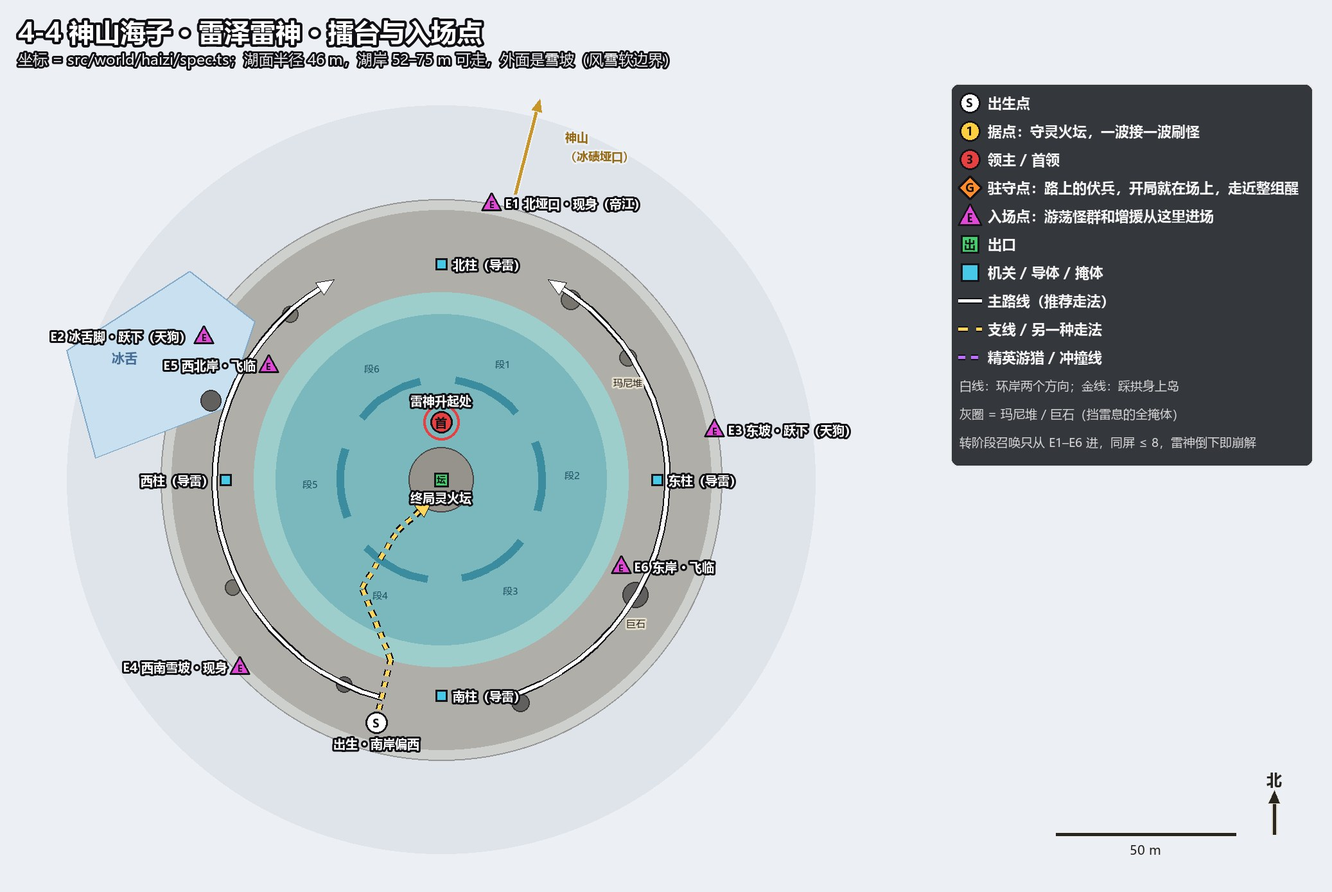
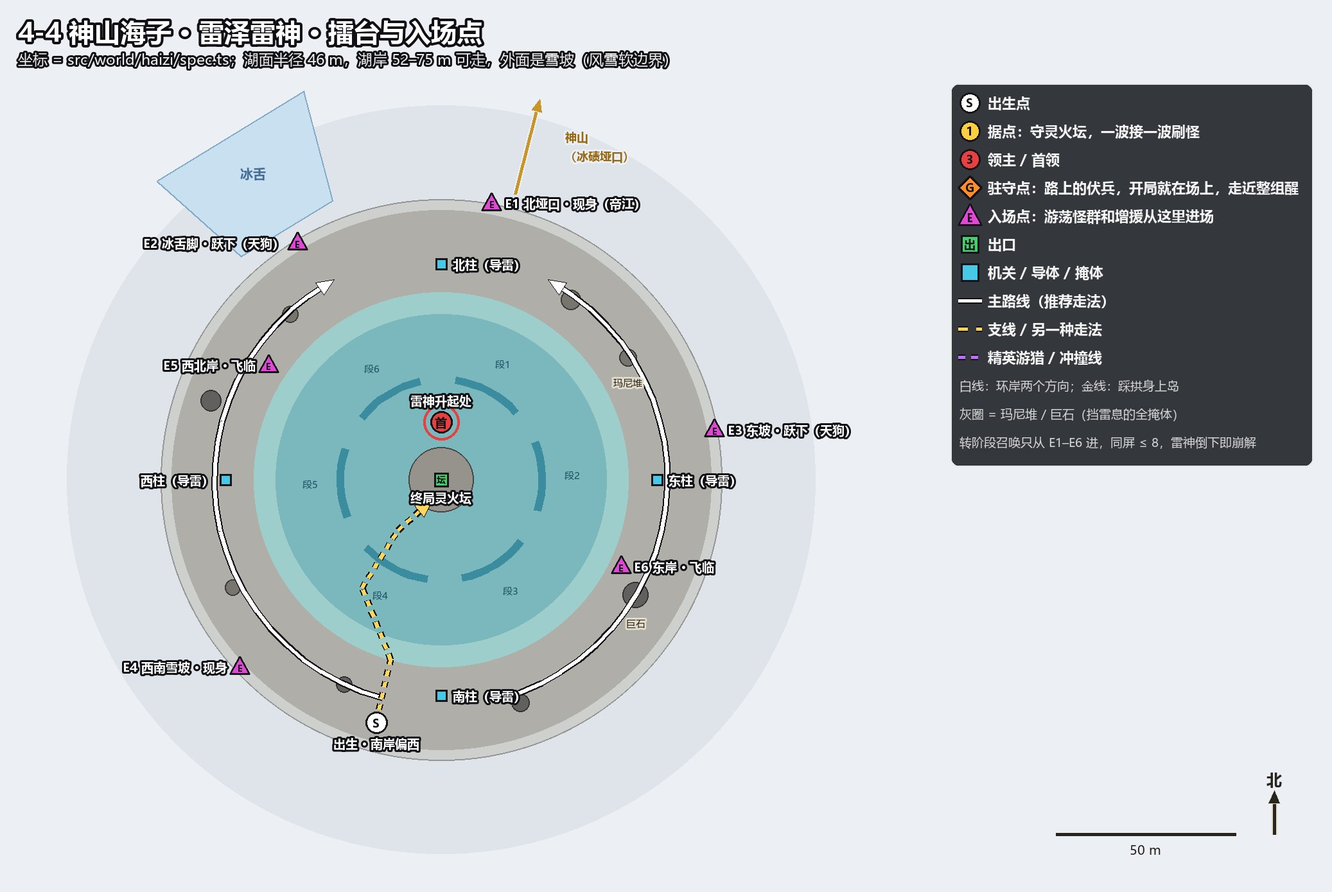
feat(plateau): 4-4 神山海子照概念图落进检视页——黎明光与神山金顶、冰舌、乳白湖色、干净的碎石岸、空气透视与雾带
- spec.ts DAWN：太阳东南偏南、仰角 7°、强度只留 0.55，湖盆靠冷调天光；天空换黎明配色；远山在 220–520 m 朝太阳一面染金
  （1.4 km 外不在阴影贴图里，烘进顶点色）
- glacier.ts：西北偏北冰斗壁上的冰舌，程序生成大切面，舌尖 82 m 处一道冰墙；只是看的，不加碰撞；
  入场点 E2「冰舌脚」随之挪到 (−40, −66)，reach_probe 4-4 全部通过
- terrain.ts：湖岸和冰斗壁不再长草（草 / 杜鹃只留南面谷口），冰斗壁 8 m 往上积雪、加几道深色岩带，远景去掉草绿；湖色降一半饱和
- haiziLab：接 Atmosphere（第四章默认值，云影 0.15）+ 两组雾带（湖北半边贴水面、冰斗脚可玩区外一圈，不挡在玩家和雷神之间）
- 对照图 docs/art/concepts/ch4-631/4-4_haizi_concept_vs_web.jpg（同一机位，上概念图、下网页）；631：低饱和 70%、中间调 72%、安静 26%
- render_blockouts.mjs 加 --out（拿改过的场景和概念图对照，不覆盖白模底图）；叠标 / 俯视图跟着 E2 和冰舌位置更新

Changed region(s): [[0.0926, 0.0929, 0.2469, 0.3096], [0.0309, 0.3405, 0.1851, 0.4953]]

diff --git a/src/world/haizi/scene.ts b/src/world/haizi/scene.ts
@@ -1,18 +1,22 @@
 /**
  * 4-4 神山海子的场景组装：地形瓦片、镜面湖、四根导雷石柱、湖岸掩体与经幡、湖心岛灵火坛、天空、远景、草与碎石。
- * 湖面用平面反射（three/examples 的 Reflector，半分辨率）：近处像镜子一样映着神山，俯看时是牛奶海的乳白青绿；
+ * 湖面用平面反射（three/examples 的 Reflector，半分辨率）：近处像镜子一样映着神山，俯看时是牛奶海的乳白青灰；
  * setTint / setGlow 把湖水变成通电的紫红（雷泽雷神二阶段「雷泽」）。
+ * 光和色照概念图 docs/art/concepts/ch4-631/4-4_haizi_scene_v5.jpg：黎明，湖盆在冷调阴影里，只有神山上半截吃到金光（DAWN）；
+ * 西北偏西的冰斗壁上一条冰舌（glacier.ts）。
  */
 import * as THREE from 'three';
 import { Reflector } from 'three/examples/jsm/objects/Reflector.js';
 import { buildMountains, buildSky } from '../plateau/backdrop';
+import { srgb } from '../plateau/fx';
 import { FlagSystem } from '../plateau/flags';
 import { GeoBuilder } from '../plateau/geo';
 import { buildPlacements, type Animated, type MapIcon, type SmokeEmitter } from '../plateau/landmarks';
 import { WORLD_UNIFORMS, materials } from '../plateau/materials';
 import { GrassField, buildStaticScatter } from '../plateau/scatter';
 import type { CollisionWorld } from '../plateau/walker';
-import { FLAG_LINES, ISLAND, LAKE, PEAKS, PILLARS, PLACEMENTS, type PillarSpec } from './spec';
+import { buildGlacier } from './glacier';
+import { DAWN, FLAG_LINES, ISLAND, LAKE, PEAKS, PILLARS, PLACEMENTS, type PillarSpec } from './spec';
 import { buildFarTerrain, type HaiziTerrain } from './terrain';
 
 // ───────────────────────────── 湖面 ─────────────────────────────
@@ -160,6 +164,52 @@ function linearSky(sky: THREE.Mesh): THREE.Mesh {
   return mesh;
 }
 
+// ───────────────────────────── 黎明 ─────────────────────────────
+
+/** 指向太阳的单位向量（4-4 的黎明，不用 4-1 的午后太阳） */
+export const DAWN_SUN_DIR = new THREE.Vector3(...DAWN.sunDir).normalize();
+
+/** 天空换成黎明的配色和太阳方向（要在 linearSky 克隆之前改） */
+function dawnSky(sky: THREE.Mesh): void {
+  const u = (sky.material as THREE.ShaderMaterial).uniforms;
+  u.uTop.value = srgb(DAWN.sky.top);
+  u.uMid.value = srgb(DAWN.sky.mid);
+  u.uHorizon.value = srgb(DAWN.sky.horizon);
+  u.uSunDir = { value: DAWN_SUN_DIR };
+}
+
+/**
+ * 金顶：远山（顶点色）在 from 以上、朝太阳的那一面往金色染。远景件，光直接烘进颜色——
+ * 1.4 km 外的山不在阴影贴图范围里，实时光照做不出「湖盆还在阴影里、只有山尖亮」。
+ */
+function summitGlow(mountains: THREE.Object3D): void {
+  const gold = new THREE.Color(DAWN.summit.color), c = new THREE.Color(), center = new THREE.Vector3();
+  const sunXZ = new THREE.Vector2(DAWN_SUN_DIR.x, DAWN_SUN_DIR.z).normalize(), out = new THREE.Vector2();
+  const seen = new Set<THREE.BufferGeometry>();
+  mountains.traverse(o => {
+    const m = o as THREE.Mesh;
+    if (!m.isMesh || seen.has(m.geometry)) return;
+    seen.add(m.geometry);
+    const g = m.geometry;
+    const pos = g.attributes.position as THREE.BufferAttribute;
+    const col = g.attributes.color as THREE.BufferAttribute | undefined;
+    if (!col) return;
+    // 朝向按顶点相对山心的水平方向判断（远山网格的法线有的朝下，材质是双面的，看不出来，但不能拿来判朝向）
+    g.computeBoundingBox();
+    g.boundingBox!.getCenter(center);
+    for (let i = 0; i < pos.count; i++) {
+      const y = pos.getY(i) + m.position.y;
+      const k = THREE.MathUtils.smoothstep(y, DAWN.summit.from, DAWN.summit.to);
+      if (k <= 0) continue;
+      out.set(pos.getX(i) - center.x, pos.getZ(i) - center.z);
+      const face = out.lengthSq() < 1 ? 0.6 : Math.max(0, out.normalize().dot(sunXZ) + 0.25);
+      c.fromBufferAttribute(col, i).lerp(gold, Math.min(1, k * face * 1.6) * DAWN.summit.strength);
+      col.setXYZ(i, c.r, c.g, c.b);
+    }
+    col.needsUpdate = true;
+  });
+}
+
 // ───────────────────────────── 导雷石柱 ─────────────────────────────
 
 export interface Pillar {
@@ -275,8 +325,11 @@ export function buildHaizi(scene: THREE.Scene, terrain: HaiziTerrain, world: Col
   }
   scene.add(terrainGroup);
   const sky = buildSky();
+  dawnSky(sky);
   const skyLin = linearSky(sky);
-  scene.add(sky, skyLin, buildMountains(PEAKS), buildFarTerrain(terrain));
+  const mountains = buildMountains(PEAKS);
+  summitGlow(mountains);
+  scene.add(sky, skyLin, mountains, buildFarTerrain(terrain), buildGlacier());
 
   const lake = new LakeSurface(terrain, reflectW, reflectH);
   // 反射那一遍换成线性色的天空，渲染完换回来

diff --git a/src/world/haizi/glacier.ts b/src/world/haizi/glacier.ts
@@ -1,0 +1,82 @@
+/**
+ * 4-4 神山海子的冰舌（概念图 docs/art/concepts/ch4-631/4-4_haizi_scene_v5.jpg 左侧那片）：
+ * 西北偏西的冰斗壁上，一条从冰斗顶淌下来的冰舌，舌尖停在湖岸外 82 m，舌尖是一道 3–4 m 的冰崖。
+ *
+ * 看得见、走不到的远中景件，按项目规矩程序生成（不走 Tripo）：一条顺着山坡的带子，几块大切面，
+ * 中线最厚、两边贴回山坡；面片单独着色（flatShading），朝上的面亮、侧面偏青，不画细裂缝。
+ * 只是看的：在可玩区（半径 78 m + 软边界）外面，不加碰撞。
+ */
+import * as THREE from 'three';
+import { patchMaterial } from '../plateau/materials';
+import { smoothstep } from '../plateau/terrain';
+import { GLACIER } from './spec';
+import { macroAt } from './terrain';
+
+/** 0..1 的确定性伪随机（同一个格点每次一样） */
+const hash = (i: number, j: number): number => {
+  const s = Math.sin(i * 127.1 + j * 311.7) * 43758.5453;
+  return s - Math.floor(s);
+};
+
+const TOP = new THREE.Color('#e9f1f5'), TOP_SHADE = new THREE.Color('#cfdfe9'), SIDE = new THREE.Color('#a8c4d2'), CLIFF = new THREE.Color('#aac2cd');
+
+export function buildGlacier(): THREE.Mesh {
+  const G = GLACIER;
+  const NS = 18, NU = 6;                      // 顺坡 18 段、横向 6 段：块面大，读得出切面
+  const dir = (b: number): [number, number] => [Math.sin(b), -Math.cos(b)];
+  /** 第 i 段（0 = 舌尖）横向第 j 点的世界坐标 */
+  const point = (i: number, j: number): THREE.Vector3 => {
+    const t = i / NS;
+    const r = G.r0 + (G.r1 - G.r0) * t;
+    const half = G.halfWidth0 + (G.halfWidth1 - G.halfWidth0) * smoothstep(0, 1, t);
+    const u = (j / NU) * 2 - 1;                 // −1..1
+    // 中线微微弯一点（冰川顺着冰斗壁的冲沟走），整条不是一根直尺
+    const bend = Math.sin(t * 2.4) * 0.05;
+    const [fx, fz] = dir(G.bearing + bend);
+    const [sx, sz] = [-fz, fx];                 // 横向
+    const x = fx * r + sx * u * half, z = fz * r + sz * u * half;
+    const ground = macroAt(x, z).h;
+    // 冰层：中线最厚、两边收成 0；舌根更厚；每个格点抖一点，切面才不呆板
+    // 舌尖那几段额外抬高：舌尖读成一道冰墙，不是贴在地上的一片
+    const snout = 1 + 0.9 * (1 - smoothstep(0, 0.12, t));
+    const th = G.thick * (1 - u * u) * (0.75 + 0.6 * t) * snout + (hash(i, j) - 0.5) * 1.2 * (1 - u * u);
+    return new THREE.Vector3(x, ground + Math.max(0.2, th), z);
+  };
+  const grid: THREE.Vector3[][] = [];
+  for (let i = 0; i <= NS; i++) { const row: THREE.Vector3[] = []; for (let j = 0; j <= NU; j++) row.push(point(i, j)); grid.push(row); }
+
+  const pos: number[] = [], col: number[] = [];
+  const up = new THREE.Vector3(0, 1, 0), e1 = new THREE.Vector3(), e2 = new THREE.Vector3(), nrm = new THREE.Vector3();
+  const tri = (a: THREE.Vector3, b: THREE.Vector3, c: THREE.Vector3, base?: THREE.Color): void => {
+    e1.subVectors(b, a); e2.subVectors(c, a); nrm.crossVectors(e1, e2).normalize();
+    if (nrm.y < 0) { [b, c] = [c, b]; nrm.negate(); }
+    // 朝上的面亮（顶面受天光），越陡越偏青（侧面），再按面片抖一点亮度
+    const k = nrm.dot(up);
+    const cc = (base ?? TOP).clone().lerp(TOP_SHADE, smoothstep(0.95, 0.75, k)).lerp(SIDE, smoothstep(0.75, 0.35, k));
+    cc.multiplyScalar(0.96 + hash(Math.round(a.x), Math.round(a.z)) * 0.08);
+    for (const v of [a, b, c]) { pos.push(v.x, v.y, v.z); col.push(cc.r, cc.g, cc.b); }
+  };
+  for (let i = 0; i < NS; i++) for (let j = 0; j < NU; j++) {
+    const a = grid[i][j], b = grid[i][j + 1], c = grid[i + 1][j + 1], d = grid[i + 1][j];
+    // 对角线按格交替，块面朝向更散
+    if ((i + j) % 2) { tri(a, b, c); tri(a, c, d); } else { tri(a, b, d); tri(b, c, d); }
+  }
+  // 舌尖冰崖：舌尖那一排点往下拉到山坡以下 1 m，一道竖着的冰墙
+  for (let j = 0; j < NU; j++) {
+    const a = grid[0][j], b = grid[0][j + 1];
+    const a0 = a.clone().setY(macroAt(a.x, a.z).h - 1), b0 = b.clone().setY(macroAt(b.x, b.z).h - 1);
+    // 冰崖朝湖：法线水平，tri() 按「朝上」翻面会翻错，这里直接按顺序写
+    const cc = CLIFF.clone().multiplyScalar(0.95 + hash(j, 99) * 0.1);
+    for (const v of [a, a0, b0, a, b0, b]) { pos.push(v.x, v.y, v.z); col.push(cc.r, cc.g, cc.b); }
+  }
+  const g = new THREE.BufferGeometry();
+  g.setAttribute('position', new THREE.Float32BufferAttribute(pos, 3));
+  g.setAttribute('color', new THREE.Float32BufferAttribute(col, 3));
+  g.computeVertexNormals();
+  const mat = patchMaterial(new THREE.MeshLambertMaterial({ vertexColors: true, flatShading: true, side: THREE.DoubleSide }));
+  const mesh = new THREE.Mesh(g, mat);
+  mesh.name = 'glacier';
+  mesh.castShadow = true;
+  mesh.receiveShadow = true;
+  return mesh;
+}

diff --git a/src/dev/haiziLab.ts b/src/dev/haiziLab.ts
@@ -7,12 +7,14 @@
 import * as THREE from 'three';
 import { MouseLookFilter } from '../core/MouseLookFilter';
 import { SKY } from '../world/plateau/backdrop';
+import { Atmosphere, atmosphereForChapter } from '../world/Atmosphere';
+import { MistStreams, type MistStream } from '../world/MistStreams';
 import { FIRE_STATE } from '../world/plateau/landmarks';
 import { WORLD_UNIFORMS } from '../world/plateau/materials';
 import { CollisionWorld, EYE, Walker } from '../world/plateau/walker';
 import { Weather } from '../world/plateau/weather';
-import { buildHaizi } from '../world/haizi/scene';
-import { COIL, ISLAND, LAKE, MAP, PILLARS, PLACEMENTS, SPAWN, VIEWPOINTS, type Viewpoint } from '../world/haizi/spec';
+import { DAWN_SUN_DIR, buildHaizi } from '../world/haizi/scene';
+import { COIL, DAWN, ISLAND, LAKE, MAP, PILLARS, PLACEMENTS, SPAWN, VIEWPOINTS, type Viewpoint } from '../world/haizi/spec';
 import { HaiziTerrain } from '../world/haizi/terrain';
 import { LeizePlay } from '../world/haizi/play';
 
@@ -59,11 +61,12 @@ renderer.shadowMap.enabled = true;
 renderer.shadowMap.type = THREE.PCFShadowMap;
 
 const scene = new THREE.Scene();
-scene.fog = new THREE.Fog(SKY.horizon, 260, 4200);
+// 黎明（DAWN，概念图 4-4 v5）：冷调的天光撑住湖盆，低角度的金色太阳从东南偏东来，东面冰斗壁的影子罩住湖
+scene.fog = new THREE.Fog(DAWN.fog, 260, 4200);
 const camera = new THREE.PerspectiveCamera(72, innerWidth / innerHeight, 0.1, 7000);
-const hemi = new THREE.HemisphereLight('#c4dbff', '#7a8a7a', 1.25);
+const hemi = new THREE.HemisphereLight(DAWN.hemiSky, DAWN.hemiGround, DAWN.hemiIntensity);
 scene.add(hemi);
-const sun = new THREE.DirectionalLight('#fff2dc', 2.9);
+const sun = new THREE.DirectionalLight(DAWN.sun, DAWN.sunIntensity);
 sun.castShadow = true;
 sun.shadow.mapSize.set(4096, 4096);
 Object.assign(sun.shadow.camera, { left: -140, right: 140, top: 140, bottom: -140, near: 10, far: 1000 });
@@ -85,6 +88,25 @@ const fog = scene.fog as THREE.Fog;
 const weather = new Weather({
   scene, sun, hemi, fog, clearFog: { color: fog.color.clone(), near: fog.near, far: fog.far }, stormFog: new THREE.Color(SKY.stormHorizon),
 }, terrain, conductors);
+
+// 空气透视 + 雾带（composition.md 8.5）：章节默认值，云影压低（开阔碎石岸上斑驳的明暗会给怪打掩护）
+Atmosphere.bind(scene, { ...atmosphereForChapter(4), cloudShadow: DAWN.cloudShadow }, { baseY: LAKE.level });
+// 雾只摆在玩家和雷神之间以外的地方：湖的北半边（从出生点看在湖心岛后面）贴水面一层，冰斗脚（可玩区外 20 m）一圈
+const ringKeys = (r: number, from: number, to: number, n: number): MistStream['keys'] => Array.from({ length: n }, (_, i) => {
+  const a = from + ((to - from) * i) / (n - 1), x = Math.sin(a) * r, z = -Math.cos(a) * r;
+  return { position: [x, terrain.heightAt(x, z) + 3, z] as [number, number, number], halfWidth: 9, size: 28, opacity: i === 0 || i === n - 1 ? 0 : 1 };
+});
+const lakeMist = new MistStreams([{
+  opacity: 0.45, speed: 0.35, flat: true, floorY: LAKE.level, stretch: 2,
+  keys: [
+    { position: [-40, LAKE.level + 0.6, -14], halfWidth: 10, size: 22, halfHeight: 1.2, opacity: 0 },
+    { position: [-18, LAKE.level + 0.6, -24], halfWidth: 12, size: 24, halfHeight: 1.2 },
+    { position: [16, LAKE.level + 0.6, -26], halfWidth: 12, size: 24, halfHeight: 1.2 },
+    { position: [40, LAKE.level + 0.6, -14], halfWidth: 10, size: 22, halfHeight: 1.2, opacity: 0 },
+  ],
+}], { renderOrder: 2 });
+const footMist = new MistStreams([{ opacity: 0.42, speed: 0.5, keys: ringKeys(100, -1.95, 1.95, 9) }]);
+scene.add(lakeMist.mesh, footMist.mesh);
 const buildMs = performance.now() - t0;
 
 // ───────────────────────────── 行走与机位 ─────────────────────────────
@@ -355,10 +377,11 @@ function tick(dt: number, render: boolean): void {
   shadowCenter.set(Math.round(ahead.x / 8) * 8, 0, Math.round(ahead.z / 8) * 8);
   shadowCenter.y = terrain.heightAt(shadowCenter.x, shadowCenter.z);
   sun.target.position.copy(shadowCenter);
-  sun.position.copy(shadowCenter).addScaledVector(SKY.sunDir, 450);
+  sun.position.copy(shadowCenter).addScaledVector(DAWN_SUN_DIR, 450);
   grass.update(camera.position);
   for (const a of anim) a.update(time, dt);
   weather.update(dt, camera.position);
+  Atmosphere.update(time);
   lake.update();
   if (!render) return;
   adaptResolution(dt);

diff --git a/src/world/haizi/terrain.ts b/src/world/haizi/terrain.ts
@@ -144,12 +144,13 @@ export class HaiziTerrain extends HeightGrid {
         // 水线上下一圈湿石头
         c.lerp(PAL.gravelWet, (1 - smoothstep(0.05, 0.35, h)) * 0.6);
       }
-      // 高山草甸：湖岸外圈和南面谷口一块块的（牛奶海边草很少，越往外越多）
+      // 高山草甸：只长在可玩区外的冰斗脚和南面谷口（概念图 4-4 v5：湖岸是一整片平的碎石滩，交战区里不长草、不长杜鹃，
+      // 安静的大块面才衬得出怪；草和杜鹃都按这个通道撒，所以这里收住，撒点跟着收）
       if (h > 0.4 && slope < 0.5) {
-        const patch = smoothstep(0.52, 0.72, n1 + n2 * 0.25) * smoothstep(58, 72, r) * (1 - smoothstep(18, 34, h));
-        const southBoost = smoothstep(0.5, 0.9, Math.cos(angDiff(Math.atan2(x, -z), Math.PI))) * 0.3;
-        grass = clamp01(patch + southBoost * smoothstep(60, 80, r) * (1 - smoothstep(18, 34, h)));
-        if (ISLAND.r + 1 > Math.hypot(x - ISLAND.x, z - ISLAND.z) && h > 0.6) grass = Math.max(grass, smoothstep(0.45, 0.7, n2) * 0.6);
+        // 只剩南面谷口（出生点身后）一块块的；冰斗壁上不长（概念图里是雪和岩）
+        const south = smoothstep(0.5, 0.9, Math.cos(angDiff(Math.atan2(x, -z), Math.PI)));
+        const patch = smoothstep(0.52, 0.72, n1 + n2 * 0.25) * south * smoothstep(84, 100, r) * (1 - smoothstep(18, 34, h));
+        grass = clamp01(patch + south * 0.3 * smoothstep(86, 104, r) * (1 - smoothstep(18, 34, h)));
         c.lerp(n2 > 0.5 ? PAL.grass : PAL.grassDry, grass * 0.85);
       }
       // 岩：冰斗壁的陡坡、岩脊
@@ -159,9 +160,15 @@ export class HaiziTerrain extends HeightGrid {
         tmp.copy(PAL.rock).lerp(PAL.rockDark, smoothstep(0.4, 0.7, n2)).lerp(PAL.rockCool, smoothstep(0.5, 0.8, n1) * 0.5);
         c.lerp(tmp, rock);
       }
-      // 雪：坡上 14 m 往上，北坡（阴面）更低；太陡的岩壁挂不住雪
+      // 岩带：冰斗壁上几道顺坡的深色岩脊（概念图 4-4 v5：大块雪面里只留几条，不碎）
+      if (r > LAKE.shoreOuterR + 10) rock = Math.max(rock, smoothstep(0.62, 0.8, ridged(x * 0.012, z * 0.012, 3, 78)) * smoothstep(10, 30, h) * 0.85);
+      if (rock > 0) {
+        tmp.copy(PAL.rockDark).lerp(PAL.rockCool, 0.4);
+        c.lerp(tmp, rock * 0.35);
+      }
+      // 雪：4600 m 的冰斗，冰斗壁 8 m 往上就是雪（北坡、阴面更低）；太陡的岩壁和岩带挂不住雪
       const north = Math.max(0, -z / Math.max(1, r));
-      snow = smoothstep(34 - north * 10, 60 - north * 10, h + (n1 - 0.5) * 18) * (1 - smoothstep(0.95, 1.25, slope) * 0.75);
+      snow = smoothstep(8 - north * 4, 22 - north * 6, h + (n1 - 0.5) * 8) * (1 - smoothstep(0.95, 1.25, slope) * 0.75) * (1 - rock * 0.8);
       // 坡上残雪：背阴的冲沟里一条条
       snow = Math.max(snow, smoothstep(0.62, 0.78, fbm(x * 0.05, z * 0.05, 3, 77)) * smoothstep(8, 20, h) * (0.4 + north * 0.6));
       if (snow > 0) {
@@ -178,7 +185,8 @@ export class HaiziTerrain extends HeightGrid {
   }
 }
 
-const FAR_ROCK = new THREE.Color('#77716b'), FAR_GRAVEL = new THREE.Color('#9d968b'), FAR_SNOW = new THREE.Color('#f2f6fb'), FAR_GRASS = new THREE.Color('#5f7a4a');
+// 远景没有绿：4600 m 的冰斗外面是碎石、岩和雪（原来的草绿在垭口外神山脚下拉出一条绿带，和概念图的雪色对不上）
+const FAR_ROCK = new THREE.Color('#77716b'), FAR_GRAVEL = new THREE.Color('#9d968b'), FAR_SNOW = new THREE.Color('#f2f6fb'), FAR_GRASS = new THREE.Color('#8c877e');
 
 /** 图外 1.4 km 的地形：同一个地形函数往外延伸（冰斗壁、朝神山的谷地），图内部分不画（由高度图负责） */
 export function buildFarTerrain(terrain: HaiziTerrain): THREE.Mesh {

diff --git a/src/world/haizi/spec.ts b/src/world/haizi/spec.ts
@@ -32,9 +32,9 @@ export const LAKE = {
   level: 0,
   /** 湖底最深处（湖心岛和湖岸之间的那一圈） */
   bottom: -7,
-  /** 牛奶海的乳白青绿：深处 / 近岸 */
-  deep: '#2f8f98',
-  shallow: '#7fd1c6',
+  /** 牛奶海的乳白青灰：深处 / 近岸（概念图 4-4 v5：饱和度只要原来的一半，湖面是安静的大块面，不抢山尖的金） */
+  deep: '#4f8a89',
+  shallow: '#a2cbc4',
 };
 
 /** 湖心岛：顶面高出水面 h，上面是终局的灵火坛 */
@@ -54,6 +54,40 @@ export const PILLARS: PillarSpec[] = [
   { id: 'S', name: '南柱', x: 0, z: 60, height: 7 },
   { id: 'W', name: '西柱', x: -60, z: 0, height: 7 },
 ];
+
+/**
+ * 黎明（概念图 docs/art/concepts/ch4-631/4-4_haizi_scene_v5.jpg）：太阳刚从东南偏南的山脊后面出来，仰角约 7°，
+ * 照在神山朝南（朝玩家）的那一面——从南岸出生点看过去，正对着的就是吃到金光的那面。
+ * 东面的冰斗壁把整个湖盆罩在阴影里（交战区是一条窄明度带，深色龙身和紫红雷光才跳），只有远处神山的上半截吃到金光。
+ */
+export const DAWN = {
+  /** 指向太阳（x 东、z 南）：东南偏南、仰角 7° */
+  sunDir: [0.5, 0.12, 0.86] as V3,
+  /** 太阳只留一点：冰斗里还没照到，湖盆靠天光（低角度的太阳在 140 m 的阴影框外照不出冰斗壁的影子，强了会把西壁照成一大片暖色） */
+  sun: '#ffc68c', sunIntensity: 0.55,
+  hemiSky: '#b4c4dc', hemiGround: '#70737a', hemiIntensity: 1.9,
+  fog: '#cdd6e1',
+  sky: { top: '#5a7ebf', mid: '#9bb3d7', horizon: '#ead8c2' },
+  /** 神山金顶：远山顶点色在 from 以上开始染、to 处最浓，只染朝太阳的那一面 */
+  summit: { color: '#ffa443', from: 220, to: 520, strength: 0.9 },
+  /** 云影压低：开阔的碎石岸上斑驳的明暗会给怪打掩护（composition.md 第 6 节第 4 条） */
+  cloudShadow: 0.15,
+};
+
+/**
+ * 冰舌：西北偏北的冰斗壁上（从出生点看在左侧冰斗壁，概念图左边四分之一那片），从冰斗顶一路淌下来，舌尖停在湖岸外 82 m，
+ * 舌尖是一道 3–4 m 的冰崖——入场点 E2「冰舌脚 · 跃下」的怪从这里跳下来。只是看的（在可玩区外），不加碰撞。
+ */
+export const GLACIER = {
+  /** 中线方位（弧度，0 = 北、顺时针为正）：≈ 西北偏北（−32°） */
+  bearing: -0.55,
+  /** 舌尖 / 舌根到湖心的距离 */
+  r0: 82, r1: 300,
+  /** 舌尖 / 舌根的半宽（m） */
+  halfWidth0: 15, halfWidth1: 46,
+  /** 冰层厚（m）：中线最厚，两边贴回山坡 */
+  thick: 4.5,
+};
 
 /** 出生点：南岸偏西，面朝湖心岛（南柱在右前方，不挡湖心） */
 export const SPAWN = { x: -18, z: 67.6, face: [0, 0] as V2 };

diff --git a/scripts/plateau/reach/haizi.ts b/scripts/plateau/reach/haizi.ts
@@ -57,7 +57,7 @@ function run() {
     sectors.push(Math.round((got / tot) * 100));
   }
   // 出生 + 入场点：docs/art/concepts/ch4-631/README.md 3.2（2026-11-18 按本探针修正过）；__cand 可以追加候选点
-  const PTS: [string, number, number][] = [['出生', SPAWN.x, SPAWN.z], ['E1 北垭口', 14, -77], ['E2 冰舌脚', -66, -40], ['E3 东坡', 76, -14], ['E4 西南雪坡', -56, 52],
+  const PTS: [string, number, number][] = [['出生', SPAWN.x, SPAWN.z], ['E1 北垭口', 14, -77], ['E2 冰舌脚', -40, -66], ['E3 东坡', 76, -14], ['E4 西南雪坡', -56, 52],
     ['E5 西北岸（飞临落点）', -48, -32], ['E6 东岸（飞临落点）', 50, 24], ...((window as any).__cand ?? [])];
   const pts = PTS.map(([id, x, z]) => ({ id, x, z, r: +Math.hypot(x, z).toFixed(1), h: +terrain.heightAt(x, z).toFixed(1), slope: +(terrain.slopeAt(x, z) * 180 / Math.PI).toFixed(0),
     wet: +(terrain.waterLevelAt(x, z) - terrain.heightAt(x, z)).toFixed(2), bound: +terrain.basin[gi(x, z)].toFixed(1), reach: hit(x, z), nearest: hit(x, z) ? null : near(x, z) }));

diff --git a/docs/art/concepts/ch4-631/tools/route_maps.py b/docs/art/concepts/ch4-631/tools/route_maps.py
@@ -402,9 +402,9 @@ def plan_haizi():
     p.circle((0, 0), 52, fill=(158, 206, 204))                                         # 浅水
     p.circle((0, 0), 46, fill=(122, 184, 190))                                         # 深水
     p.circle((0, 0), 9, fill=(150, 146, 140), outline=(70, 70, 70), width=2)           # 湖心岛
-    # 冰舌（西北）与神山方向
-    p.poly([(-104, -36), (-70, -58), (-52, -44), (-60, -20), (-96, -6)], (200, 224, 240), (130, 170, 200))
-    p.text((-88, -34), "冰舌", 20, fill=(70, 110, 150), bold=True, stroke=(200, 224, 240))
+    # 冰舌（西北偏北）与神山方向
+    p.poly([(-55.6, -62.1), (-30.1, -77.7), (-38.1, -108.0), (-79.0, -82.9)], (200, 224, 240), (130, 170, 200))   # 冰舌（src/world/haizi/spec.ts GLACIER）
+    p.text((-52.3, -85.3), "冰舌", 20, fill=(70, 110, 150), bold=True, stroke=(200, 224, 240))
     ang = math.atan2(360, 1390)
     arrow_line(p.d, [p.P((math.sin(ang) * 82, -math.cos(ang) * 82)), p.P((math.sin(ang) * 108, -math.cos(ang) * 108))], col=(200, 150, 40), w=5, ol=(236, 240, 244))
     p.text((math.sin(ang) * 96 + 20, -math.cos(ang) * 96), "神山\n（冰碛垭口）", 18, fill=(150, 105, 20), bold=True, stroke=(236, 240, 244))
@@ -432,7 +432,7 @@ def plan_haizi():
     p.mark("exit", (0, 0), "坛", "终局灵火坛", "b", r=13)
     for (x, z, n) in ((0, -60, "北柱"), (60, 0, "东柱"), (0, 60, "南柱"), (-60, 0, "西柱")):
         p.mark("poi", (x, z), "", n + "（导雷）", "r" if x >= 0 else "l", r=11)
-    for xy, lab, a in (((14, -77), "E1 北垭口 · 现身（帝江）", "r"), ((-66, -40), "E2 冰舌脚 · 跃下（天狗）", "l"), ((76, -14), "E3 东坡 · 跃下（天狗）", "r"),
+    for xy, lab, a in (((14, -77), "E1 北垭口 · 现身（帝江）", "r"), ((-40, -66), "E2 冰舌脚 · 跃下（天狗）", "l"), ((76, -14), "E3 东坡 · 跃下（天狗）", "r"),
                        ((-56, 52), "E4 西南雪坡 · 现身", "l"), ((-48, -32), "E5 西北岸 · 飞临", "l"), ((50, 24), "E6 东岸 · 飞临", "r")):
         p.mark("entry", xy, "E", lab, a, r=13)
     p.text((52, -27), "玛尼堆", 15)

diff --git a/docs/art/concepts/ch4-631/README.md b/docs/art/concepts/ch4-631/README.md
@@ -300,6 +300,14 @@
 ## 5. 落到网页版的顺序（建议）
 
 1. **4-4**：最小。地形、湖、雷神都在 `src/world/haizi/`，只换 9 种摆件 + 接 `Atmosphere`；先出石柱、雷晶、祭坛三件的四视图。
+   - **第一步已做（2026-11-19）：光、色、远景照概念图落进检视页**（`plateau-lab.html?map=4-4`），对照图 `4-4_haizi_concept_vs_web.jpg`（上 = 概念图、下 = 网页场景，同一机位）：
+     黎明光（`spec.ts` 的 `DAWN`：太阳东南偏南、仰角 7°、只留 0.55 的强度，湖盆靠冷调天光；天空换黎明配色）；
+     神山金顶（远山顶点色在 220–520 m、朝太阳的一面染金——1.4 km 外的山不在阴影贴图里，只能烘进颜色）；
+     冰舌（`glacier.ts`，程序生成的大切面，西北偏北，舌尖 82 m 处一道冰墙；入场点 E2「冰舌脚」随之挪到 (−40, −66)，reach_probe 全部通过）；
+     湖色降一半饱和（乳白青灰）；湖岸和冰斗壁不再长草（草和杜鹃只留南面谷口），冰斗壁 8 m 往上积雪、加几道深色岩带；远景地形去掉草绿；
+     接 `Atmosphere`（第四章默认值，云影压到 0.15）+ 两组雾带（湖北半边贴水面一层、冰斗脚可玩区外一圈，都不在玩家和雷神之间）。
+     631：低饱和 70%、中间调 72%、安静 26%（概念图 57% / 75% / 14%）。
+   - 还没做：石柱、雷晶、祭坛、玛尼堆、巨石换正式件（套件表第 1–9 件 → 四视图 → Tripo）；天空接 `CloudSky`（黎明的暖色云）；湖面倒影里的金顶不明显（出生点眼高只有 1.6 m，倒影被湖心岛和远岸挡住大半）。
 2. **4-2**：`src/world/gorge/` 的地形和过河方式都在，换 12 种摆件；把 3.1 的波次、驻守点、入场点写进 `spec.ts`。
 3. **4-A**：新建 `src/world/fortress/`，坐标抄 maps/4-A.md；入口挂白盒检视页章节下拉；`StagePlan` 图池加 `4-A`。
 4. 每张图建好后：出生机位对着概念图调光和雾 → `composition_check.py` → 刷一组怪拍有怪的截图去色看 → `node scripts/plateau/reach_probe.mjs <图>` 验出生点到每个据点、驻守点、入场点（摆件换成正式模型后碰撞体变了，要重跑）。
